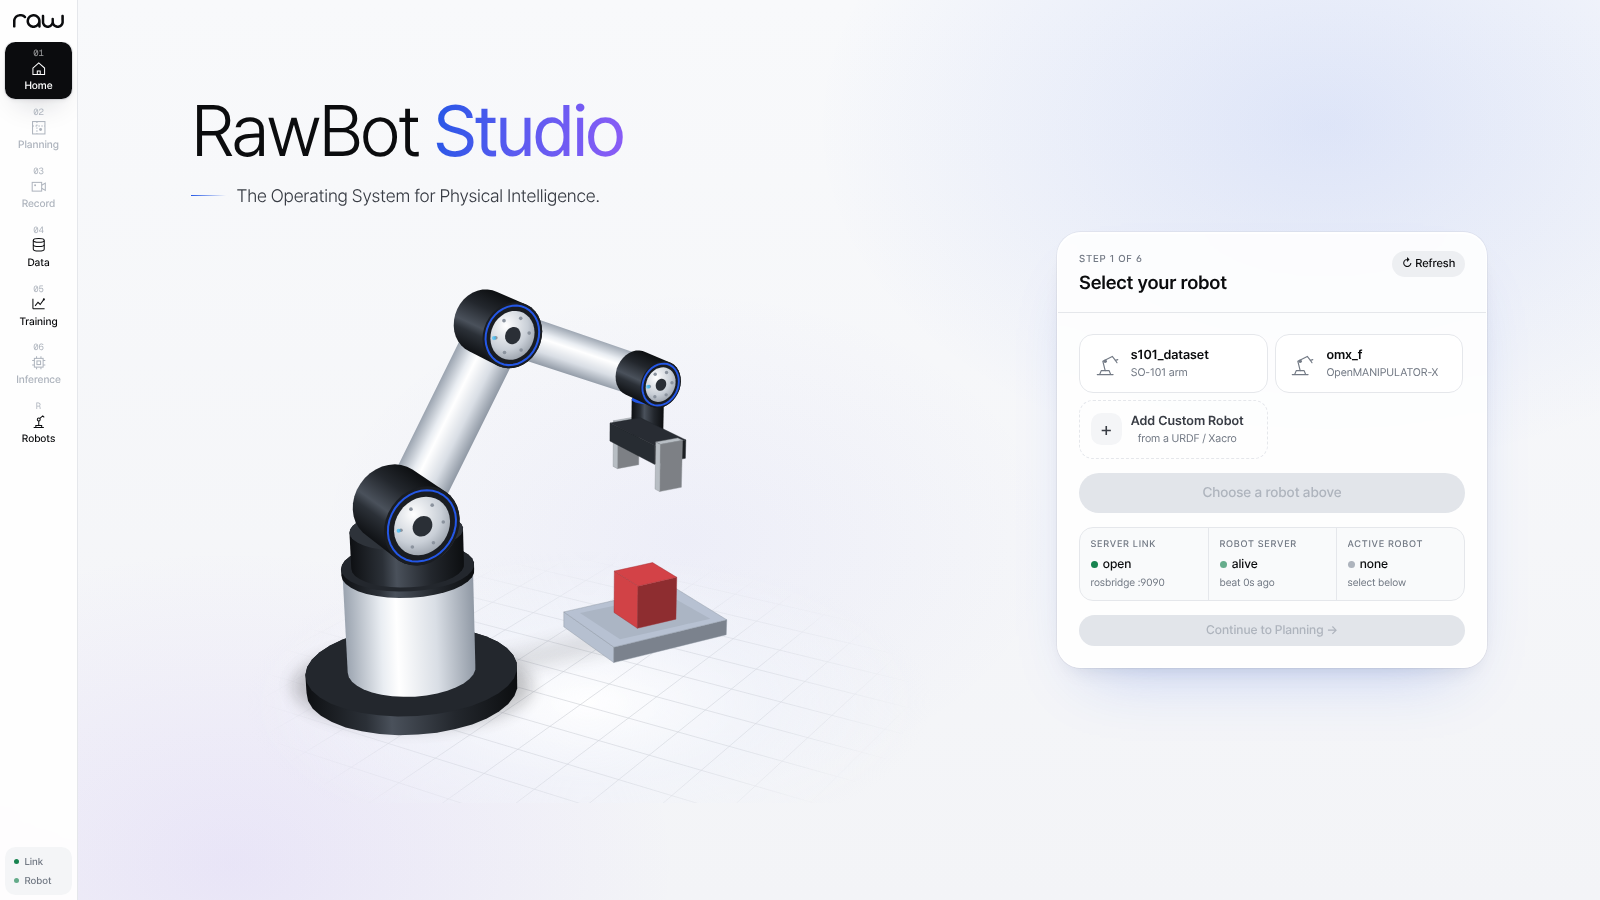
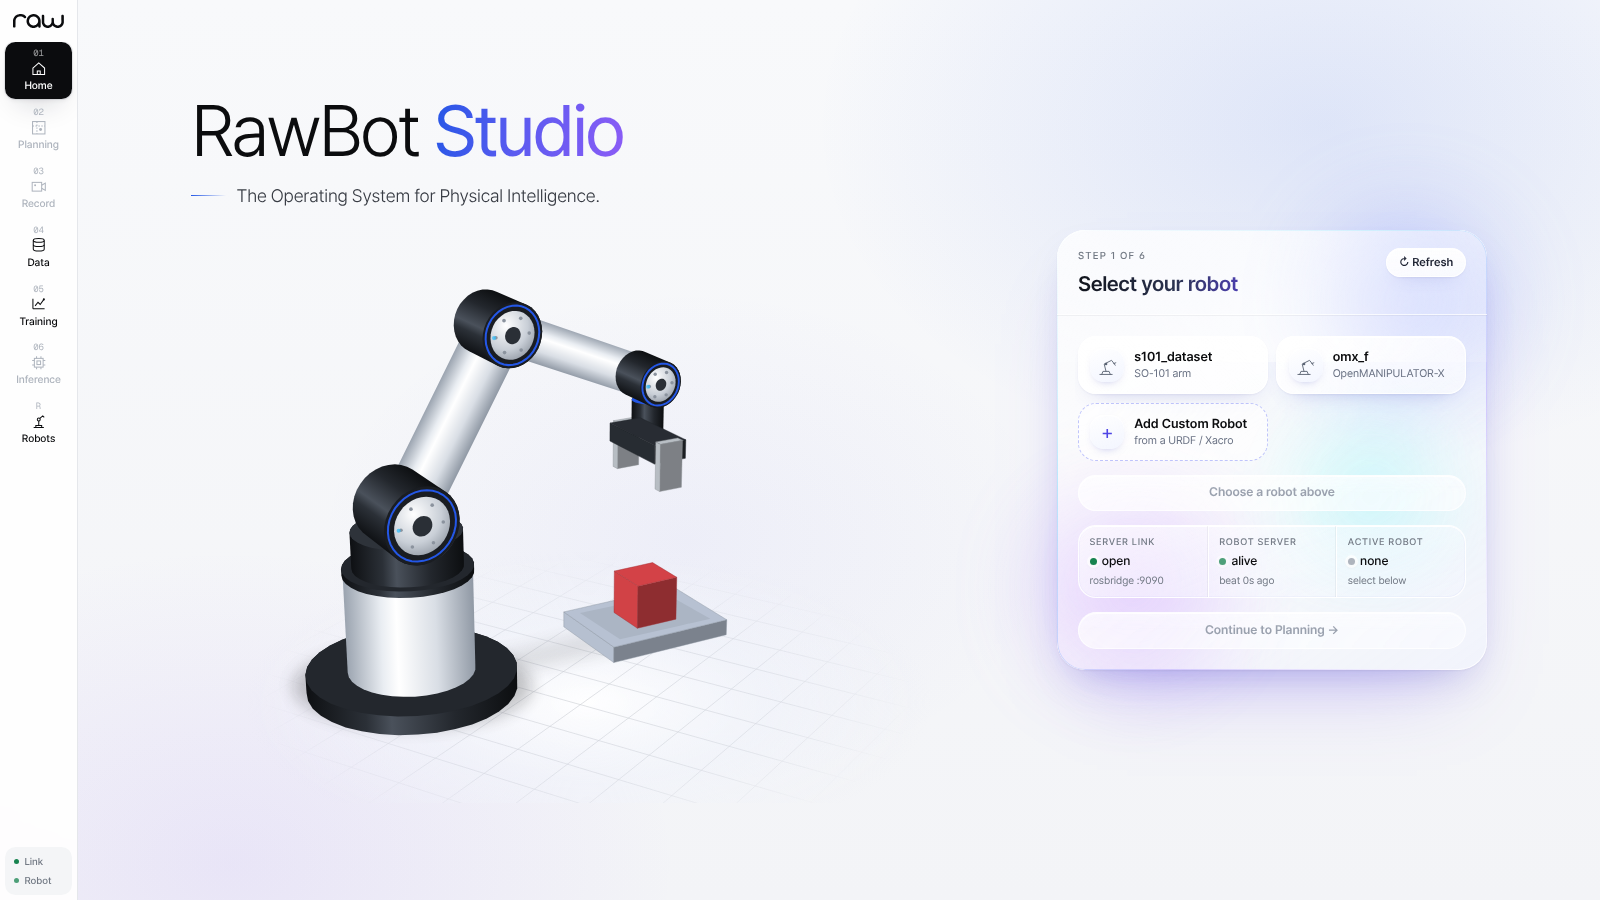
Robot selection panel: liquid glass style
Translucent blurred panel with glowing edge and reflection over soft blue/violet/cyan light;
glass robot cards (hover lift, light sweep, selected tint, gradient icon, check, glow);
glossy pill buttons; glass status strip. Scoped lg- classes; logic and markup data
attributes unchanged; reduced-motion respected.

Changed region(s): [[0.6562, 0.2489, 0.9375, 0.7778], [0.6875, 0.3733, 0.7812, 0.4978], [0.6562, 0.28, 0.7812, 0.3422]]

diff --git a/frontend/src/index.css b/frontend/src/index.css
@@ -189,3 +189,173 @@ code {
     transition-duration: 0.01ms !important;
   }
 }
+
+/* ---------------------------------------------------------------------------------------
+   Liquid glass: Home > "Select your robot" panel only (classes prefixed lg-).
+   Translucent layers over soft blue / violet / cyan light, glowing hairline borders,
+   glossy pills. Respects prefers-reduced-motion.
+   --------------------------------------------------------------------------------------- */
+.lg-stage { position: relative; isolation: isolate; }
+.lg-orb {
+  position: absolute; z-index: -1; pointer-events: none; border-radius: 9999px;
+  filter: blur(40px); opacity: 0.55; animation: lgDrift 18s ease-in-out infinite;
+}
+.lg-orb-a { width: 240px; height: 240px; top: -46px; right: -36px;
+  background: radial-gradient(circle, #7C8CFF 0%, rgba(124,140,255,0) 70%); }
+.lg-orb-b { width: 220px; height: 220px; bottom: -40px; left: -48px; animation-delay: -6s;
+  background: radial-gradient(circle, #B48CFF 0%, rgba(180,140,255,0) 70%); }
+.lg-orb-c { width: 170px; height: 170px; top: 42%; left: 52%; opacity: 0.42; animation-delay: -11s;
+  background: radial-gradient(circle, #5EE6EB 0%, rgba(94,230,235,0) 70%); }
+@keyframes lgDrift {
+  0%, 100% { transform: translate(0, 0) scale(1); }
+  50% { transform: translate(14px, -12px) scale(1.08); }
+}
+
+.lg-panel {
+  position: relative; overflow: hidden; border-radius: 28px;
+  background: linear-gradient(145deg, rgba(255,255,255,0.74) 0%, rgba(255,255,255,0.40) 55%, rgba(238,242,255,0.52) 100%);
+  -webkit-backdrop-filter: blur(26px) saturate(170%);
+  backdrop-filter: blur(26px) saturate(170%);
+  box-shadow:
+    inset 0 1px 0 rgba(255,255,255,0.95), inset 0 -1px 0 rgba(255,255,255,0.35),
+    0 1px 2px rgba(30,41,90,0.06), 0 18px 40px -18px rgba(76,81,191,0.35),
+    0 44px 84px -40px rgba(124,92,246,0.38);
+}
+/* glowing gradient hairline */
+.lg-panel::before {
+  content: ""; position: absolute; inset: 0; border-radius: inherit; padding: 1px; pointer-events: none;
+  background: linear-gradient(140deg, rgba(255,255,255,0.98), rgba(165,226,252,0.75) 32%, rgba(196,181,253,0.7) 66%, rgba(255,255,255,0.95));
+  -webkit-mask: linear-gradient(#000 0 0) content-box, linear-gradient(#000 0 0);
+  -webkit-mask-composite: xor; mask-composite: exclude;
+}
+/* top reflection */
+.lg-panel::after {
+  content: ""; position: absolute; left: -15%; right: -15%; top: -58%; height: 88%; pointer-events: none;
+  background: radial-gradient(ellipse at 50% 100%, rgba(255,255,255,0.6), rgba(255,255,255,0) 68%);
+}
+.lg-panel > * { position: relative; z-index: 1; }
+.lg-divider { border-bottom: 1px solid rgba(255,255,255,0.75); box-shadow: 0 1px 0 rgba(15,23,42,0.05); }
+.lg-title {
+  background: linear-gradient(100deg, #10131A 0%, #2B3350 60%, #4C3FB0 100%);
+  -webkit-background-clip: text; background-clip: text; color: transparent;
+}
+
+/* robot cards */
+.lg-tile {
+  position: relative; overflow: hidden; display: flex; align-items: center; gap: 0.7rem; text-align: left;
+  border-radius: 18px; padding: 0.72rem 0.8rem;
+  background: linear-gradient(160deg, rgba(255,255,255,0.78), rgba(255,255,255,0.42));
+  border: 1px solid rgba(255,255,255,0.88);
+  box-shadow: inset 0 1px 0 #fff, 0 1px 2px rgba(30,41,90,0.05), 0 10px 22px -16px rgba(76,81,191,0.45);
+  -webkit-backdrop-filter: blur(12px); backdrop-filter: blur(12px);
+  transition: transform .28s cubic-bezier(.2,.7,.2,1), box-shadow .28s ease, border-color .28s ease, background .28s ease;
+}
+.lg-tile::after {
+  content: ""; position: absolute; inset: 0; pointer-events: none; transform: translateX(-120%);
+  background: linear-gradient(115deg, transparent 30%, rgba(255,255,255,0.7) 50%, transparent 70%);
+  transition: transform .8s cubic-bezier(.2,.7,.2,1);
+}
+.lg-tile:hover:not(:disabled) {
+  transform: translateY(-2px); border-color: rgba(165,180,252,0.95);
+  box-shadow: inset 0 1px 0 #fff, 0 0 0 3px rgba(129,140,248,0.12), 0 16px 30px -16px rgba(99,102,241,0.55);
+}
+.lg-tile:hover:not(:disabled)::after { transform: translateX(120%); }
+.lg-tile:active:not(:disabled) { transform: translateY(0) scale(0.99); }
+.lg-tile:focus-visible { outline: 2px solid #818CF8; outline-offset: 2px; }
+.lg-tile:disabled { opacity: 0.6; cursor: not-allowed; }
+.lg-tile.is-on {
+  background: linear-gradient(150deg, rgba(224,231,255,0.96) 0%, rgba(237,233,254,0.8) 55%, rgba(207,250,254,0.66) 100%);
+  border-color: rgba(129,140,248,0.95);
+  box-shadow: inset 0 1px 0 #fff, 0 0 0 3px rgba(99,102,241,0.16), 0 0 26px -6px rgba(124,92,246,0.45), 0 18px 34px -18px rgba(79,70,229,0.6);
+}
+.lg-icon, .lg-plus {
+  display: grid; place-items: center; flex-shrink: 0; width: 2.45rem; height: 2.45rem; border-radius: 14px;
+  color: #5B6474; background: linear-gradient(160deg, rgba(255,255,255,0.96), rgba(238,242,255,0.72));
+  box-shadow: inset 0 1px 0 #fff, 0 4px 10px -6px rgba(76,81,191,0.5);
+  transition: background .28s ease, color .28s ease, box-shadow .28s ease;
+}
+.lg-plus { font-size: 20px; line-height: 1; color: #4F46E5; }
+.lg-tile.is-on .lg-icon, .lg-tile-add:hover .lg-plus {
+  color: #fff; background: linear-gradient(150deg, #6D7BFF, #8B5CF6);
+  box-shadow: inset 0 1px 0 rgba(255,255,255,0.45), 0 6px 14px -6px rgba(99,102,241,0.85);
+}
+.lg-tile-add { background: rgba(255,255,255,0.3); border: 1.5px dashed rgba(129,140,248,0.5); box-shadow: none; }
+.lg-tile-add:hover:not(:disabled) { background: rgba(238,242,255,0.62); border-color: rgba(99,102,241,0.75); }
+.lg-sub { color: #6B7385; }
+.lg-check {
+  position: absolute; top: 8px; right: 8px; display: grid; place-items: center;
+  width: 18px; height: 18px; border-radius: 9999px; font-size: 10px; color: #fff;
+  background: linear-gradient(140deg, #4F7BFF, #8B5CF6);
+  box-shadow: 0 0 0 2px rgba(255,255,255,0.92), 0 4px 10px -2px rgba(99,102,241,0.7);
+  animation: lgPop .38s cubic-bezier(.2,1.4,.4,1) both;
+}
+@keyframes lgPop { 0% { transform: scale(0.4); opacity: 0; } 100% { transform: scale(1); opacity: 1; } }
+.lg-chip-active {
+  position: absolute; right: 8px; bottom: 6px; padding: 1px 7px; border-radius: 9999px;
+  font-size: 9.5px; font-weight: 600; color: #0F766E;
+  background: linear-gradient(140deg, rgba(204,251,241,0.96), rgba(165,243,252,0.78));
+  box-shadow: inset 0 1px 0 #fff, 0 0 0 1px rgba(45,212,191,0.35);
+}
+
+/* glass pills */
+.lg-btn {
+  position: relative; overflow: hidden; display: inline-flex; align-items: center; justify-content: center; gap: 0.4rem;
+  border-radius: 9999px; padding: 0.55rem 1rem; font-size: 12.5px; font-weight: 600; color: #1E2333;
+  background: linear-gradient(180deg, rgba(255,255,255,0.88), rgba(255,255,255,0.52));
+  border: 1px solid rgba(255,255,255,0.92);
+  box-shadow: inset 0 1px 0 #fff, 0 1px 2px rgba(30,41,90,0.06), 0 8px 18px -12px rgba(76,81,191,0.45);
+  -webkit-backdrop-filter: blur(10px); backdrop-filter: blur(10px);
+  transition: transform .22s cubic-bezier(.2,.7,.2,1), box-shadow .22s ease, background .22s ease, color .22s ease;
+  user-select: none;
+}
+.lg-btn::before {
+  content: ""; position: absolute; inset: 0 0 50% 0; border-radius: 9999px 9999px 40% 40% / 9999px 9999px 100% 100%;
+  pointer-events: none; opacity: 0.5;
+  background: linear-gradient(180deg, rgba(255,255,255,0.55) 0%, rgba(255,255,255,0.12) 70%, rgba(255,255,255,0) 100%);
+}
+.lg-btn:hover:not(:disabled) {
+  transform: translateY(-1px);
+  box-shadow: inset 0 1px 0 #fff, 0 0 0 3px rgba(129,140,248,0.14), 0 12px 24px -12px rgba(99,102,241,0.55);
+}
+.lg-btn:active:not(:disabled) { transform: translateY(0) scale(0.985); }
+.lg-btn:focus-visible { outline: 2px solid #818CF8; outline-offset: 2px; }
+.lg-btn:disabled {
+  cursor: not-allowed; color: #9AA1AE; background: rgba(255,255,255,0.42);
+  border-color: rgba(255,255,255,0.75); box-shadow: inset 0 1px 0 rgba(255,255,255,0.85);
+}
+.lg-btn-sm { padding: 0.36rem 0.85rem; font-size: 11.5px; }
+.lg-btn-primary:not(:disabled), .lg-btn-cta:not(:disabled) {
+  color: #fff; border-color: rgba(255,255,255,0.35);
+  box-shadow: inset 0 1px 0 rgba(255,255,255,0.45), inset 0 -10px 18px -12px rgba(55,48,163,0.65), 0 12px 26px -12px rgba(99,102,241,0.75);
+}
+.lg-btn-primary:not(:disabled) { background: linear-gradient(135deg, #5B7CFF 0%, #6D5BFF 52%, #8B5CF6 100%); }
+.lg-btn-cta:not(:disabled) { background: linear-gradient(120deg, #3B82F6 0%, #6366F1 55%, #8B5CF6 100%); }
+.lg-btn-primary:hover:not(:disabled), .lg-btn-cta:hover:not(:disabled) {
+  box-shadow: inset 0 1px 0 rgba(255,255,255,0.5), inset 0 -10px 18px -12px rgba(55,48,163,0.65), 0 0 0 3px rgba(129,140,248,0.2), 0 16px 32px -12px rgba(99,102,241,0.85);
+}
+.lg-btn-mint:not(:disabled) {
+  color: #0F4C4A; border-color: rgba(255,255,255,0.92);
+  background: linear-gradient(135deg, rgba(204,251,241,0.96) 0%, rgba(165,243,252,0.86) 58%, rgba(199,210,254,0.82) 100%);
+  box-shadow: inset 0 1px 0 #fff, 0 12px 24px -14px rgba(20,184,166,0.6);
+}
+
+/* status strip and alert */
+.lg-status {
+  display: grid; grid-template-columns: repeat(3, minmax(0, 1fr)); overflow: hidden; border-radius: 18px;
+  background: linear-gradient(160deg, rgba(255,255,255,0.58), rgba(241,245,255,0.36));
+  border: 1px solid rgba(255,255,255,0.88);
+  box-shadow: inset 0 1px 0 #fff, inset 0 0 0 1px rgba(99,102,241,0.04);
+}
+.lg-status > * + * { border-left: 1px solid rgba(255,255,255,0.92); box-shadow: -1px 0 0 rgba(15,23,42,0.05); }
+.lg-dot { box-shadow: 0 0 0 3px rgba(255,255,255,0.75), 0 1px 4px rgba(15,23,42,0.18); }
+.lg-alert {
+  border-radius: 14px; padding: 0.5rem 0.75rem; font-size: 12.5px; color: #9F1239;
+  background: linear-gradient(140deg, rgba(254,226,226,0.88), rgba(254,242,242,0.62));
+  border: 1px solid rgba(255,255,255,0.88);
+}
+
+@media (prefers-reduced-motion: reduce) {
+  .lg-orb, .lg-check { animation: none; }
+  .lg-tile, .lg-btn, .lg-tile::after { transition: none; }
+  .lg-tile::after { display: none; }
+}

diff --git a/frontend/src/pages/HomePage.js b/frontend/src/pages/HomePage.js
@@ -248,22 +248,18 @@ export default function HomePage() {
             </div>
           </div>
 
-          <section
-            className="relative rounded-[24px] border border-white/80 bg-white/85 backdrop-blur-xl animate-rise"
-            style={{
-              animationDelay: '120ms',
-              boxShadow:
-                '0 0 0 1px rgba(15,23,42,0.05), 0 1px 0 rgba(255,255,255,0.9) inset, 0 10px 24px -14px rgba(15,23,42,0.18), 0 32px 64px -32px rgba(36,87,230,0.28)',
-            }}
-            aria-label="Robot selection"
-          >
-            <header className="flex items-start justify-between gap-3 px-6 pt-5 pb-4 border-b border-rule">
+          <div className="lg-stage animate-rise" style={{ animationDelay: '120ms' }}>
+          <span className="lg-orb lg-orb-a" aria-hidden />
+          <span className="lg-orb lg-orb-b" aria-hidden />
+          <span className="lg-orb lg-orb-c" aria-hidden />
+          <section className="lg-panel" aria-label="Robot selection">
+            <header className="lg-divider flex items-start justify-between gap-3 px-6 pt-5 pb-4">
               <div>
-                <div className="label">Step 1 of 6</div>
-                <h2 className="mt-1 text-[19px] font-semibold tracking-[-0.01em] text-ink">Select your robot</h2>
+                <div className="label tracking-[0.12em]">Step 1 of 6</div>
+                <h2 className="lg-title mt-1.5 text-[21px] font-semibold tracking-[-0.02em]">Select your robot</h2>
               </div>
               <button
-                className="btn btn-sm"
+                className="lg-btn lg-btn-sm"
                 onClick={fetchRobotTypes}
                 disabled={fetching}
                 title="Reload robot types from the server"
@@ -274,10 +270,10 @@ export default function HomePage() {
             </header>
             <div className="space-y-4 p-6">
                 {fetchError && (
-                  <div className="rounded-xl bg-signal-errbg px-3 py-2 text-[12.5px]">{fetchError}</div>
+                  <div className="lg-alert">{fetchError}</div>
                 )}
                 <div
-                  className="grid grid-cols-1 sm:grid-cols-2 gap-2 max-h-[248px] overflow-y-auto scroll-thin pr-0.5"
+                  className="grid grid-cols-1 sm:grid-cols-2 gap-2.5 max-h-[268px] overflow-y-auto scroll-thin p-1 -m-1"
                   role="radiogroup"
                   aria-label="Robot type"
                 >
@@ -294,31 +290,27 @@ export default function HomePage() {
                         data-robot={t}
                         disabled={saving || busy}
                         onClick={() => setSelected(t)}
-                        className={clsx(
-                          'group relative overflow-hidden text-left rounded-2xl border px-3 py-3 flex items-center gap-2.5 transition-all duration-200 animate-rise',
-                          'hover:-translate-y-[1px] disabled:opacity-60',
-                          on
-                            ? 'border-sky-ink bg-sky-50 ring-4 ring-sky-ink/10 shadow-card'
-                            : 'border-rule bg-white hover:border-sky-ink/40 hover:shadow-card'
-                        )}
+                        className={clsx('lg-tile group animate-rise', on && 'is-on')}
                         style={{ animationDelay: `${180 + i * 40}ms` }}
                       >
-                        <FamilyGlyph family={fam.key} className={clsx('h-9 w-9 shrink-0 transition-colors', on ? 'text-sky-ink' : 'text-ink-3 group-hover:text-ink-2')} />
+                        <span className="lg-icon">
+                          <FamilyGlyph family={fam.key} className="h-7 w-7" />
+                        </span>
                         <span className="min-w-0">
                           <span className="block text-[13px] font-semibold truncate">{t}</span>
-                          <span className="block text-[11px] truncate text-ink-3">{fam.name}</span>
+                          <span className="lg-sub block text-[11px] truncate">{fam.name}</span>
                         </span>
                         {on && (
-                          <span className="absolute right-2 top-2 grid h-4 w-4 place-items-center rounded-full bg-sky-ink text-[9px] text-white" aria-hidden>
+                          <span className="lg-check" aria-hidden>
                             ✓
                           </span>
                         )}
-                        {active && <span className="chip-ok absolute right-1.5 bottom-1.5 text-[9.5px] px-1 py-0">active</span>}
+                        {active && <span className="lg-chip-active">active</span>}
                       </button>
                     );
                   })}
                   {!robotTypeList.length && (
-                    <div className="sm:col-span-2 rounded-2xl border border-rule bg-paper/60 p-4 text-center text-[12.5px] text-ink-3">
+                    <div className="lg-tile lg-tile-add sm:col-span-2 justify-center p-4 text-[12.5px] lg-sub">
                       <span>{fetching ? 'Loading robot types…' : 'No robot types yet'}</span>
                     </div>
                   )}
@@ -331,12 +323,14 @@ export default function HomePage() {
                         data-custom-robot={r.id}
                         onClick={() => openRobots({ mode: 'detail', id: r.id })}
                         title="Custom robot — open its profile (it is set up and verified there)"
-                        className="relative text-left rounded-2xl border border-rule px-3 py-3 flex items-center gap-2.5 bg-white hover:border-sky-ink/40 hover:shadow-card transition-all hover:-translate-y-[1px]"
+                        className="lg-tile group"
                       >
-                        <FamilyGlyph family="generic" className="h-9 w-9 shrink-0 text-ink-3" />
+                        <span className="lg-icon">
+                          <FamilyGlyph family="generic" className="h-7 w-7" />
+                        </span>
                         <span className="min-w-0">
                           <span className="block text-[13px] font-semibold truncate">{r.name}</span>
-                          <span className="block text-[11px] truncate text-ink-3">
+                          <span className="lg-sub block text-[11px] truncate">
                             Custom · {stage ? `Stage ${stage} ${STAGE_NAMES[stage].toLowerCase()}` : 'draft'}
                           </span>
                         </span>
@@ -347,18 +341,18 @@ export default function HomePage() {
                     type="button"
                     data-action="add-custom-robot"
                     onClick={() => openRobots({ mode: 'add' })}
-                    className="group rounded-2xl px-3 py-3 flex items-center gap-2.5 border border-dashed border-ink-4/60 text-ink-2 hover:border-sky-ink/50 hover:bg-sky-50/60 hover:text-ink transition-all"
+                    className="lg-tile lg-tile-add group"
                   >
-                    <span className="h-9 w-9 shrink-0 grid place-items-center rounded-xl bg-paper text-[20px] leading-none transition-colors group-hover:bg-sky-ink group-hover:text-white">+</span>
+                    <span className="lg-plus">+</span>
                     <span className="min-w-0">
                       <span className="block text-[13px] font-semibold truncate">Add Custom Robot</span>
-                      <span className="block text-[11px] truncate text-ink-3">from a URDF / Xacro</span>
+                      <span className="lg-sub block text-[11px] truncate">from a URDF / Xacro</span>
                     </span>
                   </button>
                 </div>
 
                 <button
-                  className={clsx('w-full py-2.5 text-[14px]', confirmed ? 'btn' : 'btn-primary')}
+                  className={clsx('lg-btn w-full py-3 text-[14px]', confirmed ? 'lg-btn-mint' : 'lg-btn-primary')}
                   onClick={confirm}
                   disabled={!selected || saving || busy}
                   data-action="confirm-robot"
@@ -367,12 +361,12 @@ export default function HomePage() {
                   {confirmed ? `✓ ${robotType} confirmed — re-apply` : selected ? `Confirm ${selected}` : 'Choose a robot above'}
                 </button>
 
-                <div className="grid grid-cols-3 divide-x divide-rule overflow-hidden rounded-2xl border border-rule bg-paper/50">
+                <div className="lg-status">
                   {status.map((s) => (
                     <div key={s.key} className="min-w-0 px-3 py-2.5">
                       <div className="label text-[9.5px] truncate">{s.label}</div>
                       <div className="flex items-center gap-1.5 mt-1">
-                        <span className={clsx('h-2 w-2 rounded-full shrink-0', dot[s.tone], s.pulse && 'animate-pulsedot')} />
+                        <span className={clsx('lg-dot h-2 w-2 rounded-full shrink-0', dot[s.tone], s.pulse && 'animate-pulsedot')} />
                         <span className="text-[12.5px] font-medium truncate" data-status={s.key}>
                           {s.value}
                         </span>
@@ -385,11 +379,12 @@ export default function HomePage() {
                   <p className="text-[12px] text-signal-warn">A task is running — the robot type is locked until it finishes.</p>
                 )}
 
-                <button className="btn-sky w-full" disabled={!robotType} onClick={() => go(PageType.PLANNING)}>
+                <button className="lg-btn lg-btn-cta w-full py-3 text-[13.5px]" disabled={!robotType} onClick={() => go(PageType.PLANNING)}>
                   Continue to Planning →
                 </button>
               </div>
             </section>
+          </div>
         </div>
       </div>
     </div>

diff --git a/CHANGELOG.md b/CHANGELOG.md
@@ -2,6 +2,18 @@
 
 ## 2.0.0, renamed (2026-11-13)
 
+* **Robot selection in liquid glass.** The "Select your robot" panel on Home uses a
+  liquid-glass style:
+  * a translucent blurred panel with a glowing gradient edge and a top reflection, over soft
+    blue, violet and cyan light;
+  * glass robot cards with a hover lift and light sweep, and a selected state with a tint,
+    gradient icon tile, check mark and glowing ring;
+  * glossy pill buttons: indigo-violet *Confirm*, mint *confirmed*, blue-violet *Continue*;
+  * a glass status strip.
+
+  The styles are scoped `lg-` classes in `index.css`, so no other page changes. Robots,
+  selection, confirmation, custom robots, status and navigation are unchanged. The panel
+  stops moving for visitors who prefer reduced motion.
 * **Home page, refined.**
   * The robot animation is now a 3D scene in three-quarter perspective, drawn as SVG with
     no 3D library (`components/HeroArm.js`):
